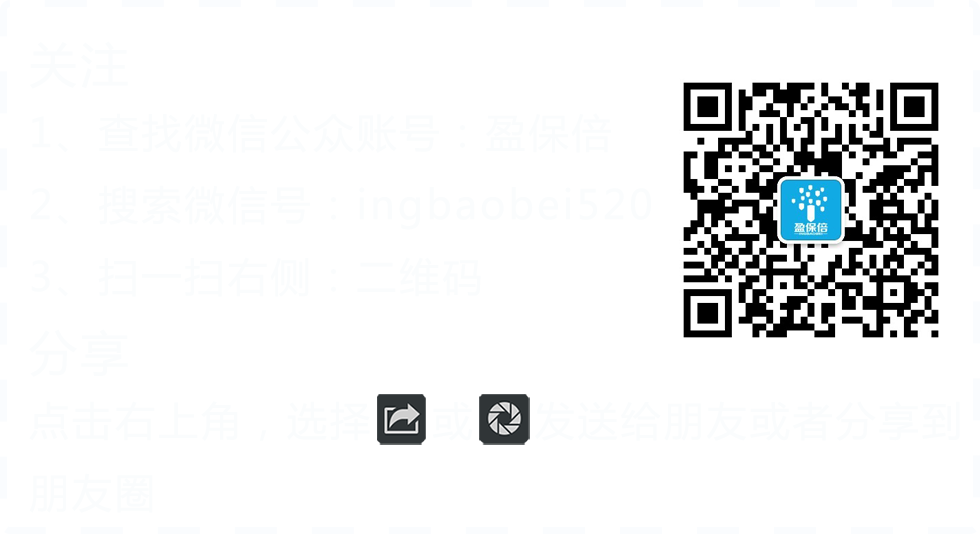
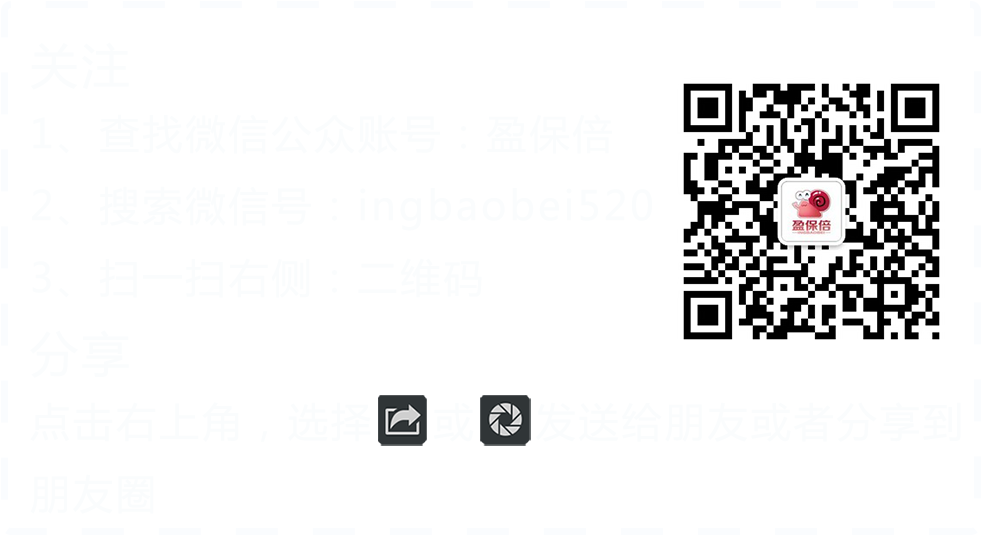
修改

Changed region(s): [[0.6735, 0.1498, 0.9796, 0.6592], [0.4898, 0.7491, 0.551, 0.839], [0.398, 0.7491, 0.4286, 0.839]]

diff --git a/@/css/qing-app.min.css b/@/css/qing-app.min.css
@@ -1,1 +1,1 @@
-html,body{margin:0;padding:0;overflow:hidden;-webkit-tap-highlight-color:rgba(0,0,0,0)}#superContainer{height:100%;position:relative;-ms-touch-action:none}.section{position:relative;-webkit-box-sizing:border-box;-moz-box-sizing:border-box;box-sizing:border-box}.slide{float:left}.slide,.slidesContainer{height:100%;display:block}.slides{height:100%;overflow:hidden;position:relative;-webkit-transition:all .3s ease-out;-moz-transition:all .3s ease-out;-o-transition:all .3s ease-out;transition:all .3s ease-out}.section.table,.slide.table{display:table;width:100%}.tableCell{display:table-cell;vertical-align:middle;width:100%;height:100%}.slidesContainer{float:left;position:relative}.controlArrow{position:absolute;top:50%;cursor:pointer;width:0;height:0;border-style:solid;margin-top:-38px}.controlArrow.prev{left:15px;width:0;border-width:38.5px 34px 38.5px 0;border-color:transparent #fff transparent transparent}.controlArrow.next{right:15px;border-width:38.5px 0 38.5px 34px;border-color:transparent transparent transparent #fff}.scrollable{overflow:scroll}.easing{-webkit-transition:all .7s ease-out;-moz-transition:all .7s ease-out;-o-transition:all .7s ease-out;transition:all .7s ease-out}#fullPage-nav{position:fixed;z-index:100;margin-top:-32px;top:50%;opacity:1}#fullPage-nav.right{right:17px}#fullPage-nav.left{left:17px}.fullPage-slidesNav{position:absolute;z-index:4;left:50%;opacity:1}.fullPage-slidesNav.bottom{bottom:17px}.fullPage-slidesNav.top{top:17px}#fullPage-nav ul,.fullPage-slidesNav ul{margin:0;padding:0}#fullPage-nav li,.fullPage-slidesNav li{display:block;width:14px;height:13px;margin:7px;position:relative}.fullPage-slidesNav li{display:inline-block}#fullPage-nav li a,.fullPage-slidesNav li a{display:block;position:relative;z-index:1;width:100%;height:100%;cursor:pointer;text-decoration:none}#fullPage-nav li .active span,.fullPage-slidesNav .active span{background:#eee}#fullPage-nav span,.fullPage-slidesNav span{top:2px;left:2px;width:8px;height:8px;border:1px solid #888;background:rgba(0,0,0,0);-webkit-border-radius:50%;-moz-border-radius:50%;border-radius:50%;position:absolute;z-index:1}.fullPage-tooltip{position:absolute;color:#fff;font-size:14px;font-family:arial,helvetica,sans-serif;top:-2px}.fullPage-tooltip.right{right:20px}.fullPage-tooltip.left{left:20px}@-webkit-keyframes slide-bit{0%{background-position:0 5px}25%{background-position:0 0}50%{background-position:0 5px}75%{background-position:0 10px}100%{background-position:0 5px}}@keyframes slide-bit{0%{background-position:0 5px}25%{background-position:0 0}50%{background-position:0 5px}75%{background-position:0 10px}100%{background-position:0 5px}}body{-webkit-user-select:none;-moz-user-select:none;-ms-user-select:none;user-select:none}.bg-fast-load{position:absolute;width:1px;height:1px;top:0;left:0;z-index:-99999;overflow:hidden}.audio-source-box{position:absolute;top:0;left:0;z-index:-999;height:1px;width:1px;visibility:hidden}.slide-tip{padding:5px 0;box-sizing:content-box;background-color:rgba(92,47,14,.1);-webkit-animation-name:slide-bit;-webkit-animation-duration:1s;-webkit-animation-delay:4s;-webkit-animation-iteration-count:infinite;-webkit-animation-play-state:running;animation-name:slide-bit;animation-duration:1s;animation-delay:4s;animation-iteration-count:infinite;animation-play-state:running;position:absolute;left:50%;margin-left:-.5em;width:1em;height:1em}.slide-tip.down{background:url(../icon/slide-down.png) no-repeat 0 5px;background-size:100% auto;bottom:0;z-index:10}.slide-tip.up{background:url(../icon/slide-up.png) no-repeat 0 5px;background-size:100% auto;top:0;z-index:10}html,body{background-color:#11abe4}.section{background-color:#11abe4;background-repeat:no-repeat;background-position:50% 50%;-webkit-background-size:100% 100%;background-size:100% 100%}#section1{background-size:50% auto;background-position:50% 36%;background-color:#11abe4}#section2{background-color:#780678}#section3{background-color:#cc0167}#section4{background-color:#da4055}#section5{background-color:#e23939}#section6{background-color:#f5721a}#section7{background-color:#c2c41e}#section8{background-color:#66cd00}#section9{background-color:#11abe4}.contentbg{position:absolute;display:block}.i-01-bg{width:50%;height:10.588235294117647%;top:36.76470588235294%;left:24.537037037037035%}.i-01-logo{width:52.77777777777777%;height:4.764705882352941%;top:49.588235294117645%;left:24.259259259259256%}.i-01-start{width:21.388888888888886%;height:7.529411764705882%;top:85.29411764705883%;left:61.11111111111111%}.i-01-line{width:27.22222222222222%;height:15.058823529411764%;top:85.17647058823529%;left:61.11111111111111%}.i-02-bg{width:100%;height:100%;top:0;left:0}.i-02-line{width:56.11111111111111%;height:100%;top:0;left:28.333333333333332%}.i-button-audio{width:7.037037037037036%;height:4.470588235294118%;background:url(../icon/audio-play.png) no-repeat 50% 50%;background-size:100% 100%}.i-button-audio.play{background:url(../icon/audio-stop.png) no-repeat 50% 50%;background-size:100% 100%}.i-button-audio.audio-1{top:16.764705882352942%;left:71.38888888888889%}.i-button-audio.audio-2{top:38%;left:35.83333333333333%}.i-button-audio.audio-3{top:65.70588235294117%;left:68.88888888888889%}.i-button-audio.audio-4{top:85.05882352941177%;left:27.777777777777775%}.i-button-audio.audio-5{top:48.94117647058823%;left:50%;background:url(../icon/not-play.png) no-repeat 50% 50%;background-size:90% 90%}.i-button-audio.audio-6{top:0;left:0;visibility:hidden}.i-03-bg{width:100%;height:100%;top:0;left:0}.i-03-line{width:76.29629629629629%;height:100%;top:0;left:18.148148148148145%}.i-04-bg{width:100%;height:100%;top:0;left:0}.i-04-line{width:79.44444444444444%;height:100%;top:0;left:18.333333333333332%}.i-05-bg{width:100%;height:100%;top:0;left:0}.i-05-line{width:43.148148148148145%;height:100%;top:0;left:13.518518518518517%}.i-06-bg{width:100%;height:100%;top:0;left:0}.i-06-line{width:68.79629629629629%;height:100%;top:0;left:17.5%}.i-07-bg{width:100%;height:100%;top:0;left:0}.i-07-line{width:74.81481481481481%;height:100%;top:0;left:13.148148148148147%}.i-07-error{opacity:.5;width:40.74074074074074%;height:25.88235294117647%;top:33.235294%;left:58.888889%}.i-08-bg{width:100%;height:100%;top:0;left:0}.i-08-line{width:68.14814814814814%;height:100%;top:0;left:4.62962962962963%}.i-09-bg{width:100%;height:100%;top:0;left:0}.i-09-line{width:54.99999999999999%;height:96%;top:0;left:35%}.i-09-share{width:17.407407407407405%;height:11.058823529411764%;top:58.94117647058823%;left:70%}.i-09-share-desc-marker{position:absolute;top:0;left:0;width:100%;height:100%;background:rgba(60,60,60,.85);display:none}.i-09-share-desc{width:80%;height:auto;max-height:100%;top:2%;left:10%}.i-09-desc{width:57.49999999999999%;height:13.588235294117647%;top:77.88235294117646%;left:36.666666666666664%;left:35.55555555555555%}.qr-img{width:180px;height:180px;top:41.588235294117645%;left:50%;margin-left:-90px;margin-top:-90px}
+html,body{margin:0;padding:0;overflow:hidden;-webkit-tap-highlight-color:rgba(0,0,0,0)}#superContainer{height:100%;position:relative;-ms-touch-action:none}.section{position:relative;-webkit-box-sizing:border-box;-moz-box-sizing:border-box;box-sizing:border-box}.slide{float:left}.slide,.slidesContainer{height:100%;display:block}.slides{height:100%;overflow:hidden;position:relative;-webkit-transition:all .3s ease-out;-moz-transition:all .3s ease-out;-o-transition:all .3s ease-out;transition:all .3s ease-out}.section.table,.slide.table{display:table;width:100%}.tableCell{display:table-cell;vertical-align:middle;width:100%;height:100%}.slidesContainer{float:left;position:relative}.controlArrow{position:absolute;top:50%;cursor:pointer;width:0;height:0;border-style:solid;margin-top:-38px}.controlArrow.prev{left:15px;width:0;border-width:38.5px 34px 38.5px 0;border-color:transparent #fff transparent transparent}.controlArrow.next{right:15px;border-width:38.5px 0 38.5px 34px;border-color:transparent transparent transparent #fff}.scrollable{overflow:scroll}.easing{-webkit-transition:all .7s ease-out;-moz-transition:all .7s ease-out;-o-transition:all .7s ease-out;transition:all .7s ease-out}#fullPage-nav{position:fixed;z-index:100;margin-top:-32px;top:50%;opacity:1}#fullPage-nav.right{right:17px}#fullPage-nav.left{left:17px}.fullPage-slidesNav{position:absolute;z-index:4;left:50%;opacity:1}.fullPage-slidesNav.bottom{bottom:17px}.fullPage-slidesNav.top{top:17px}#fullPage-nav ul,.fullPage-slidesNav ul{margin:0;padding:0}#fullPage-nav li,.fullPage-slidesNav li{display:block;width:14px;height:13px;margin:7px;position:relative}.fullPage-slidesNav li{display:inline-block}#fullPage-nav li a,.fullPage-slidesNav li a{display:block;position:relative;z-index:1;width:100%;height:100%;cursor:pointer;text-decoration:none}#fullPage-nav li .active span,.fullPage-slidesNav .active span{background:#eee}#fullPage-nav span,.fullPage-slidesNav span{top:2px;left:2px;width:8px;height:8px;border:1px solid #888;background:rgba(0,0,0,0);-webkit-border-radius:50%;-moz-border-radius:50%;border-radius:50%;position:absolute;z-index:1}.fullPage-tooltip{position:absolute;color:#fff;font-size:14px;font-family:arial,helvetica,sans-serif;top:-2px}.fullPage-tooltip.right{right:20px}.fullPage-tooltip.left{left:20px}@-webkit-keyframes slide-bit{0%{background-position:0 5px}25%{background-position:0 0}50%{background-position:0 5px}75%{background-position:0 10px}100%{background-position:0 5px}}@keyframes slide-bit{0%{background-position:0 5px}25%{background-position:0 0}50%{background-position:0 5px}75%{background-position:0 10px}100%{background-position:0 5px}}body{-webkit-user-select:none;-moz-user-select:none;-ms-user-select:none;user-select:none}.bg-fast-load{position:absolute;width:1px;height:1px;top:0;left:0;z-index:-99999;overflow:hidden}.audio-source-box{position:absolute;top:0;left:0;z-index:-999;height:1px;width:1px;visibility:hidden}.slide-tip{padding:5px 0;box-sizing:content-box;background-color:rgba(92,47,14,.1);-webkit-animation-name:slide-bit;-webkit-animation-duration:1s;-webkit-animation-delay:4s;-webkit-animation-iteration-count:infinite;-webkit-animation-play-state:running;animation-name:slide-bit;animation-duration:1s;animation-delay:4s;animation-iteration-count:infinite;animation-play-state:running;position:absolute;left:50%;margin-left:-.5em;width:1em;height:1em}.slide-tip.down{background:url(../icon/slide-down.png) no-repeat 0 5px;background-size:100% auto;bottom:0;z-index:10}.slide-tip.up{background:url(../icon/slide-up.png) no-repeat 0 5px;background-size:100% auto;top:0;z-index:10}html,body{background-color:#11abe4}.section{background-color:#11abe4;background-repeat:no-repeat;background-position:50% 50%;-webkit-background-size:100% 100%;background-size:100% 100%}#section1{background-size:50% auto;background-position:50% 36%;background-color:#11abe4}#section2{background-color:#780678}#section3{background-color:#cc0167}#section4{background-color:#da4055}#section5{background-color:#e23939}#section6{background-color:#f5721a}#section7{background-color:#c2c41e}#section8{background-color:#66cd00}#section9{background-color:#11abe4}.contentbg{position:absolute;display:block}.i-01-bg{width:50%;height:10.588235294117647%;top:36.76470588235294%;left:25.7%}.i-01-logo{width:52.77777777777777%;height:4.764705882352941%;top:49.588235294117645%;left:24.259259259259256%}.i-01-start{width:21.388888888888886%;height:7.529411764705882%;top:85.29411764705883%;left:61.11111111111111%}.i-01-line{width:27.22222222222222%;height:15.058823529411764%;top:85.17647058823529%;left:61.11111111111111%}.i-02-bg{width:100%;height:100%;top:0;left:0}.i-02-line{width:56.11111111111111%;height:100%;top:0;left:28.333333333333332%}.i-button-audio{width:7.037037037037036%;height:4.470588235294118%;background:url(../icon/audio-play.png) no-repeat 50% 50%;background-size:100% 100%}.i-button-audio.play{background:url(../icon/audio-stop.png) no-repeat 50% 50%;background-size:100% 100%}.i-button-audio.audio-1{top:16.764705882352942%;left:71.38888888888889%}.i-button-audio.audio-2{top:38%;left:35.83333333333333%}.i-button-audio.audio-3{top:65.70588235294117%;left:68.88888888888889%}.i-button-audio.audio-4{top:85.05882352941177%;left:27.777777777777775%}.i-button-audio.audio-5{top:48.94117647058823%;left:50%;background:url(../icon/not-play.png) no-repeat 50% 50%;background-size:90% 90%}.i-button-audio.audio-6{top:0;left:0;visibility:hidden}.i-03-bg{width:100%;height:100%;top:0;left:0}.i-03-line{width:76.29629629629629%;height:100%;top:0;left:18.148148148148145%}.i-04-bg{width:100%;height:100%;top:0;left:0}.i-04-line{width:79.44444444444444%;height:100%;top:0;left:18.333333333333332%}.i-05-bg{width:100%;height:100%;top:0;left:0}.i-05-line{width:43.148148148148145%;height:100%;top:0;left:13.518518518518517%}.i-06-bg{width:100%;height:100%;top:0;left:0}.i-06-line{width:68.79629629629629%;height:100%;top:0;left:17.5%}.i-07-bg{width:100%;height:100%;top:0;left:0}.i-07-line{width:74.81481481481481%;height:100%;top:0;left:13.148148148148147%}.i-07-error{opacity:.5;width:40.74074074074074%;height:25.88235294117647%;top:33.235294%;left:58.888889%}.i-08-bg{width:100%;height:100%;top:0;left:0}.i-08-line{width:68.14814814814814%;height:100%;top:0;left:4.62962962962963%}.i-09-bg{width:100%;height:100%;top:0;left:0}.i-09-line{width:54.99999999999999%;height:96%;top:0;left:35%}.i-09-share{width:17.407407407407405%;height:11.058823529411764%;top:58.94117647058823%;left:70%}.i-09-share-desc-marker{position:absolute;top:0;left:0;width:100%;height:100%;background:rgba(60,60,60,.85);display:none}.i-09-share-desc{width:80%;height:auto;max-height:100%;top:2%;left:10%}.i-09-desc{width:57.49999999999999%;height:13.588235294117647%;top:77.88235294117646%;left:36.666666666666664%;left:35.55555555555555%}.qr-img{width:180px;height:180px;top:41.588235294117645%;left:50%;margin-left:-90px;margin-top:-90px}

diff --git a/index.html b/index.html
@@ -38,7 +38,7 @@
       <img src="./@/icon/slide-down.png?20140605-1">
       <img src="./@/icon/slide-up.png?20140605-1">
 
-      <img src="./@/icon/01-bg.png?20140605-1">
+      <img src="./@/icon/01-bg.1.png?20140722-2">
       <img src="./@/icon/01-logo.gif?20140605-1">
       <img src="./@/icon/01-line.gif?20140605-1">
 
@@ -67,8 +67,8 @@
 
       <img src="./@/icon/09-bg.png?20140605-1">
       <img src="./@/icon/09-line.gif?20140605-1">
-      <!-- <img src="./@/icon/09-qr.png?20140605-1"> -->
-      <img src="./@/icon/09-qr-id.png?20140605-1">
+      <!-- <img src="./@/icon/09-qr.1.png?20140605-1"> -->
+      <img src="./@/icon/09-qr-id.1.png?20140605-1">
       <!-- <img src="./@/icon/09-share.png?20140605-1"> -->
       <!-- <img src="./@/icon/09-share-desc.png?20140605-1"> -->
     </div>
@@ -78,7 +78,7 @@
       <div class="section" id="section1">
         <div class="down slide-tip"></div>
         <img class="contentbg i-01-line" src="./@/icon/01-line.gif?20140605-1">
-        <img class="contentbg i-01-bg" src="./@/icon/01-bg.png?20140605-1">
+        <img class="contentbg i-01-bg" src="./@/icon/01-bg.1.png?20140722-2">
         <img class="contentbg i-01-logo" src="./@/icon/01-logo.gif?20140605-1">
       </div>
 
@@ -156,8 +156,8 @@
         <img class="contentbg i-09-line" src="./@/icon/09-line.gif?20140605-1">
         <img class="contentbg i-09-bg" src="./@/icon/09-bg.png?20140605-1">
 
-        <!-- <img class="contentbg qr-img i-09-qr" src="./@/icon/09-qr.png"> -->
-        <img class="contentbg qr-img i-09-qr" src="./@/icon/09-qr-id.png?20140605-1">
+        <!-- <img class="contentbg qr-img i-09-qr" src="./@/icon/09-qr.1.png"> -->
+        <img class="contentbg qr-img i-09-qr" src="./@/icon/09-qr-id.1.png?20140605-1">
 
         <!-- <img class="contentbg i-09-share" src="./@/icon/09-share.png"> -->
         <img class="contentbg i-09-desc" src="./@/icon/09-desc.gif?20140605-1">

diff --git a/@/css/qing-app.css b/@/css/qing-app.css
@@ -308,7 +308,7 @@ body {
   width: 50%;
   height: 10.588235294117647%;
   top: 36.76470588235294%;
-  left: 24.537037037037035%;
+  left: 25.7%;
 }
 .i-01-logo {
   width: 52.77777777777777%;
